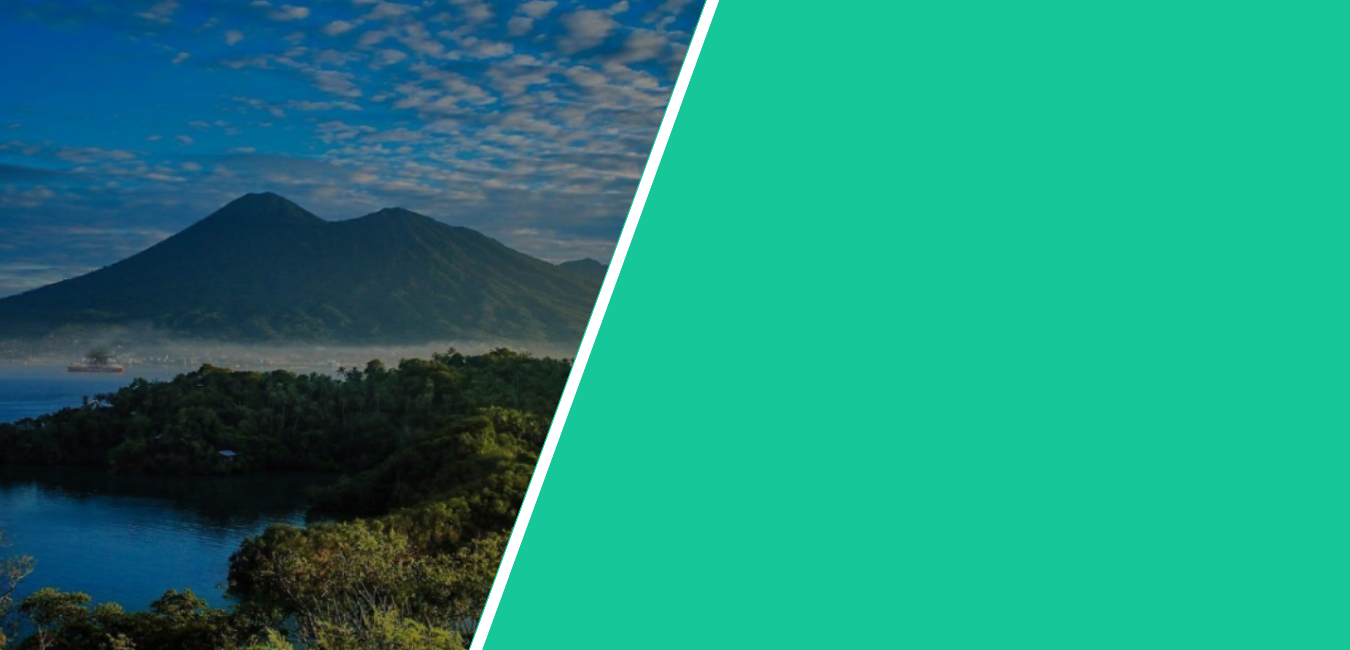
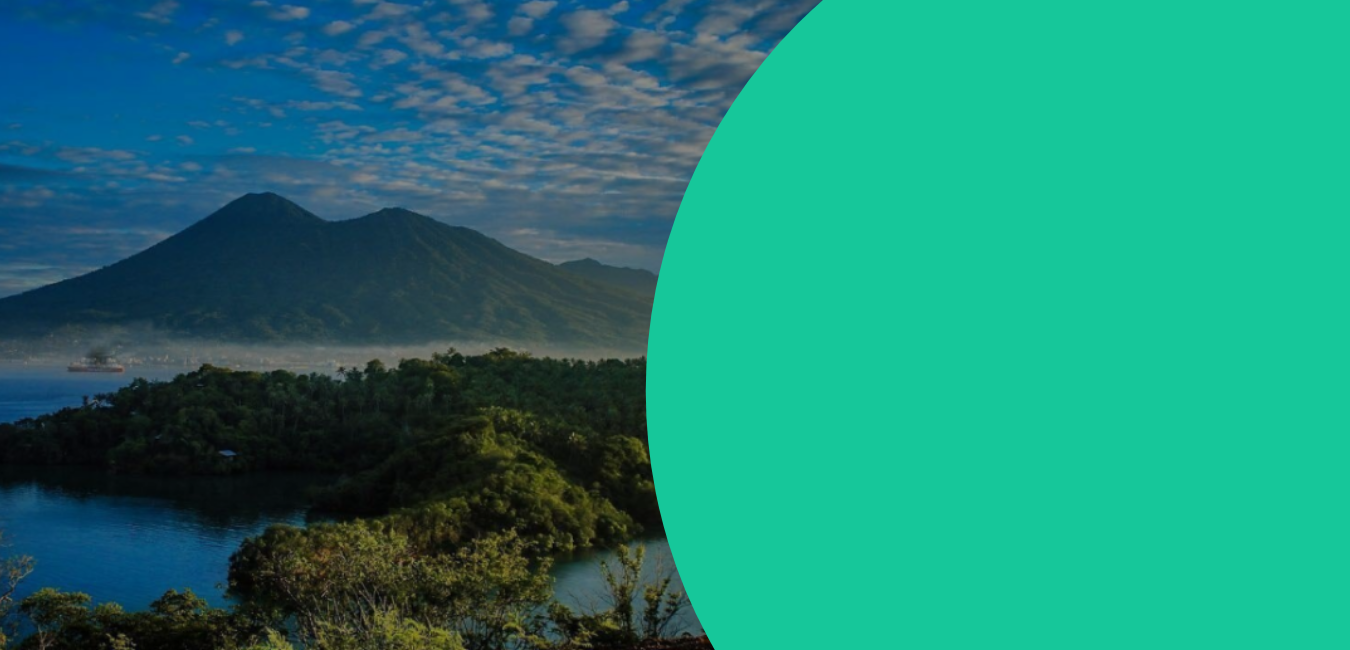
adding contact section and aside style, changing home background, and create responsive view

Changed region(s): [[0.3422, 0.0, 0.6222, 1.0]]

diff --git a/assets/style.css b/assets/style.css
@@ -75,7 +75,7 @@ nav.scroll {
 section h1 {
     padding-top: 70px;
     margin: 0;
-    margin-left: 5%;
+    text-align: center;
     font-size: 40px;
 }
 
@@ -101,6 +101,7 @@ section:nth-child(odd) {
     text-shadow: 2px 1px #808080;
     margin: 0;
     padding-top: 0;
+    text-align: unset;
 }
 
 .home-caption p {
@@ -108,7 +109,7 @@ section:nth-child(odd) {
     text-shadow: 1px 0px #808080;
     font-family: 'Nunito', sans-serif;
     margin: 0;
-    text-indent: 5px;
+    margin-left: 5px;
 }
 
 .btn {
@@ -133,8 +134,8 @@ section:nth-child(odd) {
     border-radius: 5px;
     top: 25%;
     left: 55%;
-    width: 500px;
-    height: 300px;
+    width: 40%;
+    height: 50%;
     background: rgba(0, 0, 0, 0.4);
     overflow: hidden;
     transition: box-shadow 0.2s;
@@ -186,6 +187,7 @@ section:nth-child(odd) {
 .slideshow {
     display: flex;
     width: 500%;
+    height: 100%;
 }
 
 .slideshow input{
@@ -218,9 +220,10 @@ section:nth-child(odd) {
 }
 
 .slide img {
-    width: 500px;
-    height: 300px;
+    width: 100%;
+    height: 100%;
     border-radius: 5px;
+    object-fit: cover;
 }
 
 .container {
@@ -291,7 +294,8 @@ section:nth-child(odd) {
     display: flex;
     flex-wrap: wrap;
 	width: 90%;
-	margin: 0 5% 80px;
+	margin: 0 5% 0;
+    padding-bottom: 80px;
 }
 
 .interest a {
@@ -344,8 +348,96 @@ section:nth-child(odd) {
     opacity: 1;
 }
 
-#about {
-    height: 100vh;
+#about h1::after,
+#contact h1::after {
+    content: '';
+    margin: auto;
+    display: block;
+    background: #fff;
+    height: 3px;
+    width: 10%;
+}
+
+#contact h1::after {
+    background: #16c79a;
+}
+
+.flex-container {
+    display: flex;
+    flex-wrap: wrap;
+    padding-bottom: 80px;
+    margin-top: 20px;
+    justify-content: center;
+    color: #fff;
+}
+
+.card {
+    width: 250px;
+    height: 300px;
+    border-radius: 5px;
+    background: #16c79a;
+    padding: 20px;
+    margin: 0 5px 15px;
+    box-shadow: 0 5px 10px 0 rgba(0, 0, 0, 0.5);
+}
+
+.flex-container a{
+    text-decoration: none;
+    color: #fff;
+}
+.flex-container i {
+    align-items: center;
+    text-align: center;
+    padding: 5px;
+    width: 30px;
+    height: 30px;
+    font-size: 20px;
+}
+.social-media i {
+    margin-bottom: 5px;
+    margin-right: 5px;
+}
+
+.facebook i {
+    background: #4267B2;
+}
+
+.instagram i {
+    background: #8a3ab9;
+}
+
+.youtube i {
+    background: red;
+}
+
+.right {
+    text-align: center;
+    background: #232323;
+    padding-top: 20px;
+}
+
+.right img {
+    height: 50%;
+    border-radius: 50%;
+    object-fit: cover;
+}
+
+.right p {
+    margin-top: 50px;
+}
+
+.right .social-media {
+    display: flex;
+    flex-direction: row;
+    justify-content: center;
+}
+
+.right .social-media i {
+    margin-bottom: none;
+}
+
+.twitter i {
+    background: #00acee;
 }
 
 footer {
@@ -359,10 +451,29 @@ footer p {
     font-size: 80%;
 }
 
+@media(max-width: 1300px) {
+    .home-caption {
+        left: 2%;
+    }
+}
+
+@media(max-width: 1050px) {
+    .home-caption {
+        width: 350px;
+    }
+    
+    .slider {
+        height: 45%;
+    }
+}
+
 @media(max-width: 768px) {
     #home {
         background-image: url(images/header/header1.png);
-        background-attachment: fixed;
+    }
+
+    .home-caption {
+        width: fit-content;
     }
 
     .list-menu {
@@ -458,28 +569,10 @@ footer p {
         display: none;
     }
 
-    section h1 {
-        text-align: center;
-        margin-left: 2%;
-    }
-
-    #about h1::after,
-    #contact h1::after {
-        content: '';
-        margin: auto;
-        display: block;
-        background: #fff;
-        height: 3px;
-        width: 10%;
-    }
-
-    .home-caption h1 {
-        text-align: unset;
-    }
-
     .content {
         width: 98%;
-        margin-left: 2%;
+        margin-left: 1%;
+        justify-content: center;
     }
 
     .caption {
@@ -488,5 +581,10 @@ footer p {
 
     .caption p {
         opacity: 1;
+    }
+
+    article p {
+        margin-left: 10px;
+        margin-right: 20px;
     }
 }
